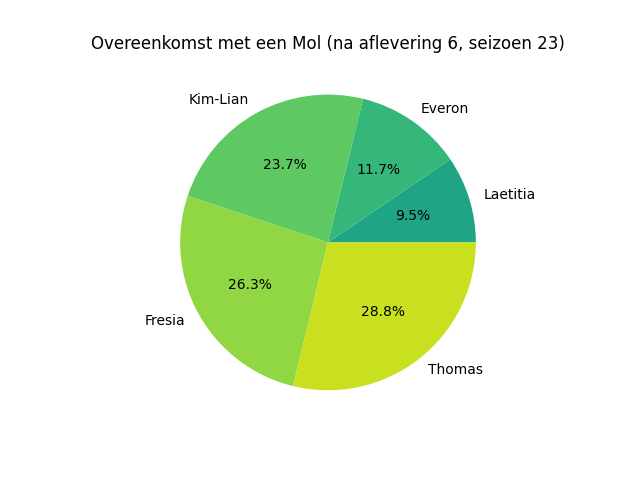
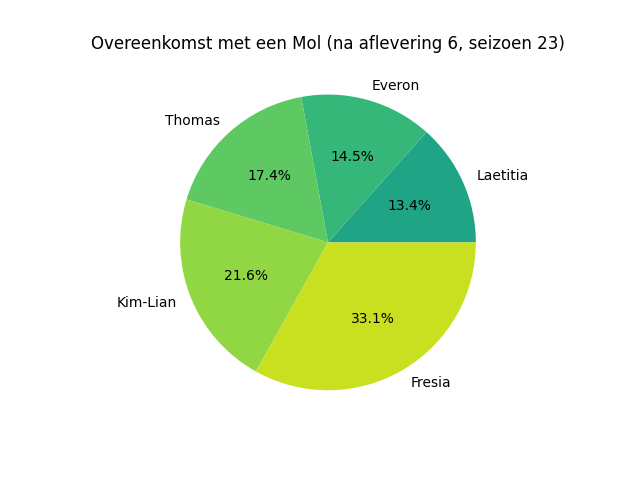
recalculate results for season 23 based on exam accusations bugfix

diff --git a/moldel/Data/ExamData/Exams/Season23.py b/moldel/Data/ExamData/Exams/Season23.py
@@ -662,7 +662,7 @@ input9 = {
     )
 }
 result9 = Result(DropType.NO_DROP_NOR_SCREENS, [])
-episode9 = Episode(players9, result9, input9, questions9)
+episode9 = Episode(players9, result9, input9, questions9, num_questions=40)
 
 ################
 # Summary
